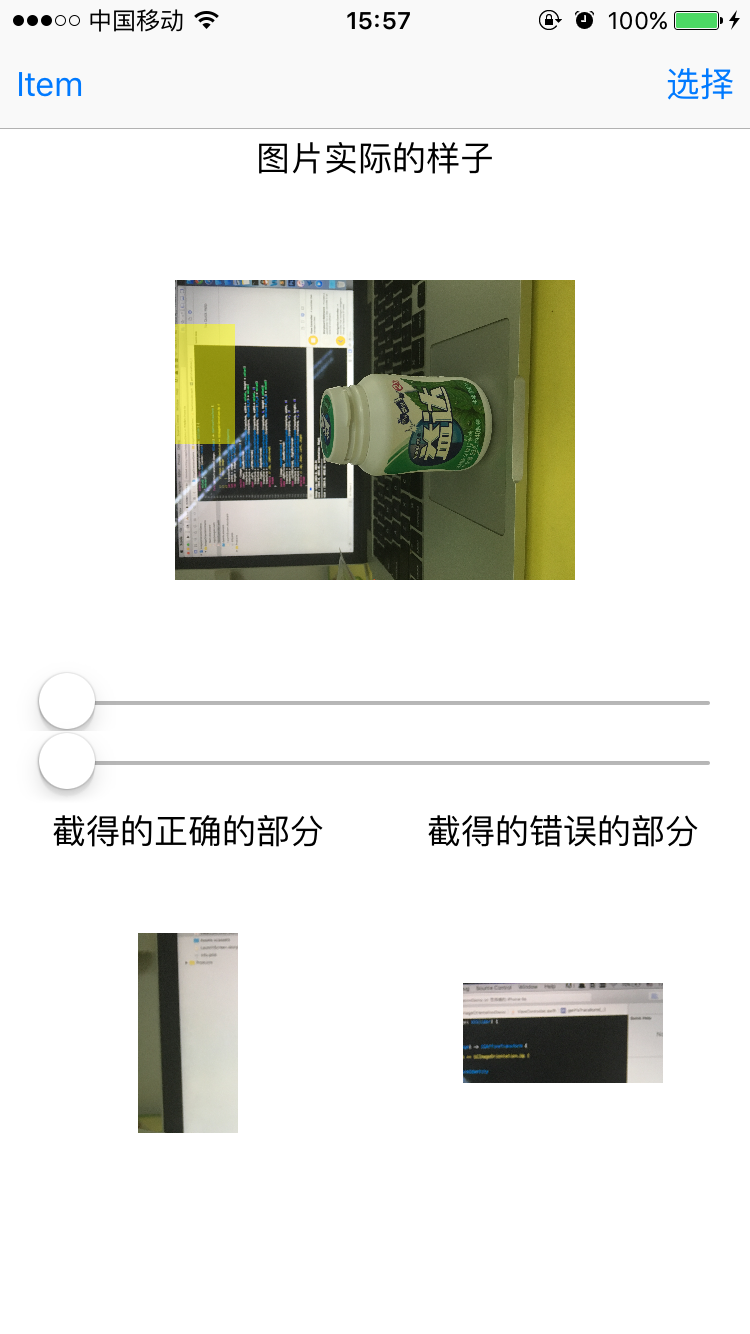
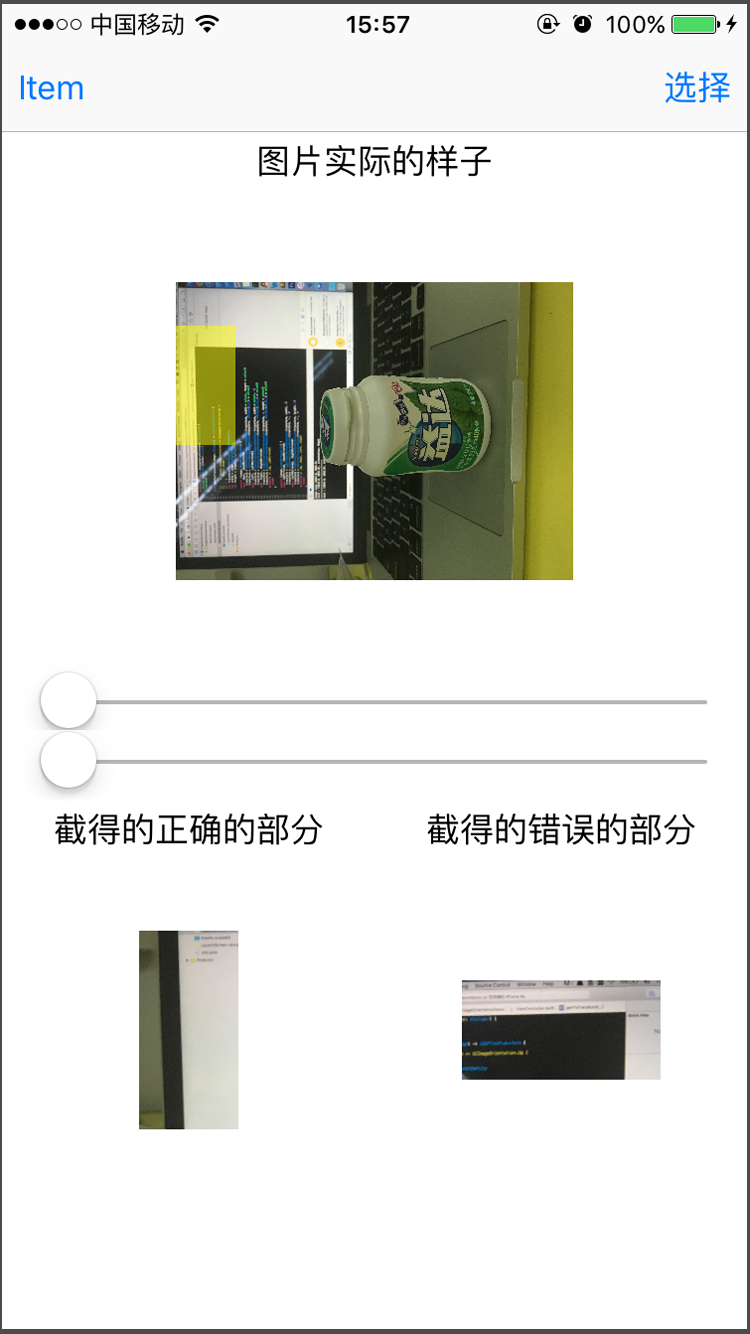
修改ready

diff --git a/README.md b/README.md
@@ -1,7 +1,8 @@
 # ImageOrientationDemo2
 
-<img src="IMG_0451.png" width="50%">
-
 Demo中的上面的图片是图片实际的方向，由于屏幕空间有限，没有画出图片展示出来的样子
+
+<img src="IMG_0451.png" width="30%">
+
 
   
